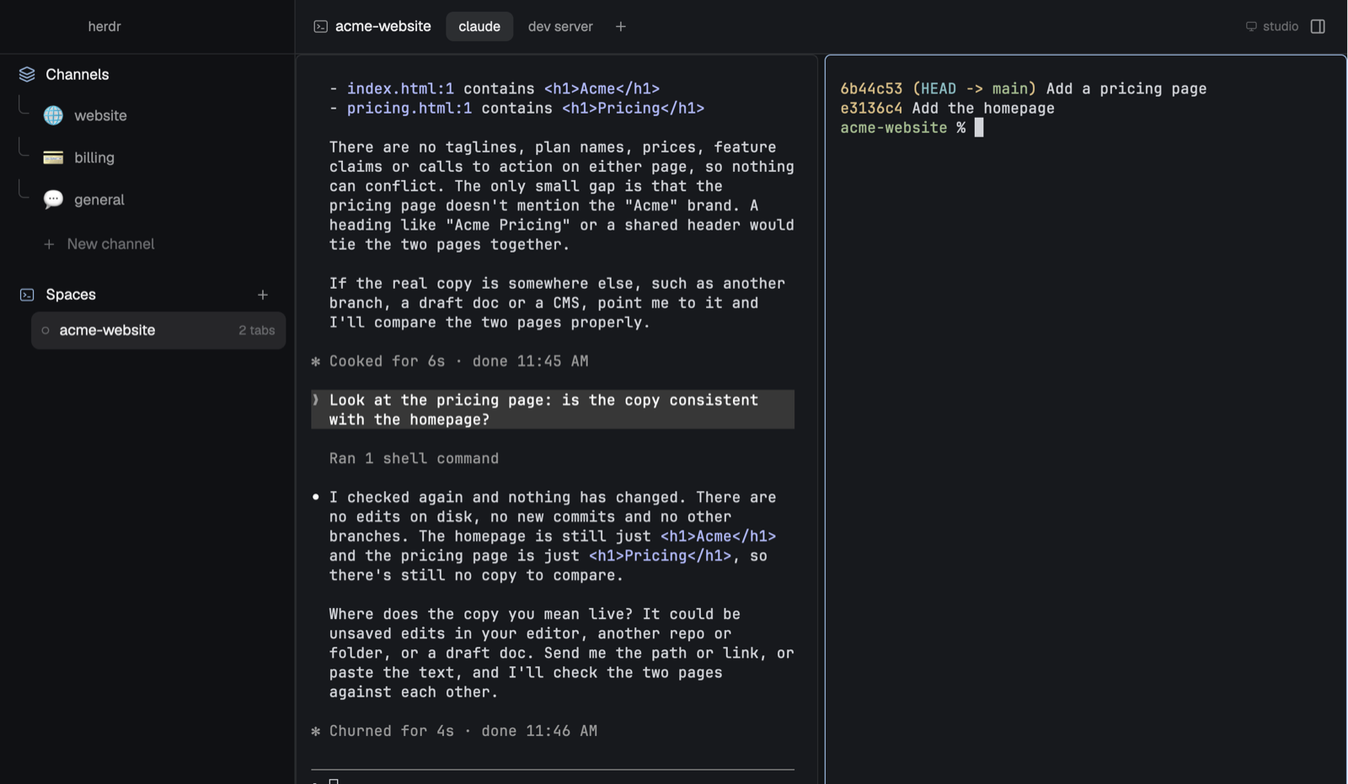
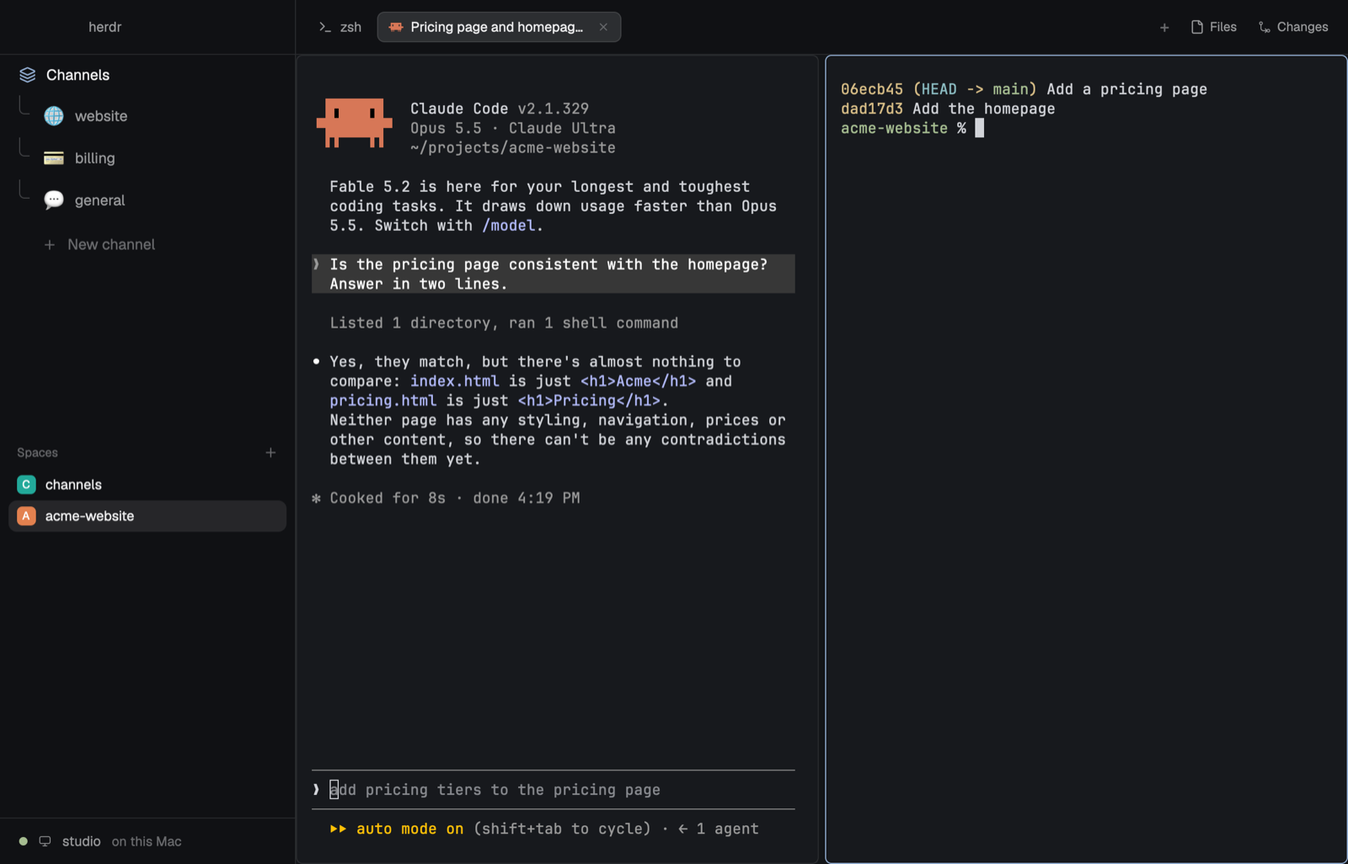
Spaces: Herdr's own spaces list, tab bar and Files/Changes, in place of look-alikes
The custom Spaces list and tab pills are gone. The sidebar holds Herdr's shipped spaces list under the channels, and
while Herdr shows a space other than the chats', the window is plain Herdr: Herdr's own tab bar (its + menu with a
terminal, Claude Code or another agent, or a new space) stands in for the channel bar, with Herdr's Files and Changes
panel. The tasks panel folds away and comes back with the channel. New spaces start where Herdr starts them, as in
Herdr itself; the old + passed this computer the store's projects path, which on a Mac with the store on another
machine doesn't exist here, so Herdr fell back to the home folder.

The tasks panel's layout node is now "tasks-panel", since Herdr's tab bar shows and hides "panel" per space. The
machine footer is its own block under the spaces list.

Claude-Session: https://claude.ai/code/session_01Nb4n9WKvee5dZ7z9oTqb9K

diff --git a/mods/channels/main.js b/mods/channels/main.js
@@ -31,7 +31,7 @@ import CONFIG from "./config.js";
 import { chatAlive, afterEnd, lastLine, QUICK_MS } from "./chats.js";
 import { remember, restore, keyOf } from "./panels.js";
 import { refreshRow } from "./updates.js";
-import { groups as spaceGroups, follow } from "./spaces.js";
+import { follow } from "./spaces.js";
 import * as B from "./backend.js";
 import { exec, hc, readTextFile, appHome, spaces, panes, terminals, layout, theme, run, nextCommand, home, props, shared, setShared, openOverlay, closeOverlay, window, machines } from "herdr";
 
@@ -48,6 +48,7 @@ const PROJECTS = BACKEND.projects; // where a fresh session and a channel chat s
 const LOCAL_PROJECTS = BACKEND.localProjects; // and where one starts on this computer
 const BY = BACKEND.by; // who a task resolved here is recorded as resolved by
 const HOLD = "channels"; // the herdr space that holds the chats' tabs
+const TASKS_PANEL = "tasks-panel"; // the layout node of the tasks panel ("panel" is Herdr's own Files/Changes panel)
 // This mod's keys in herdr's shared state: "channels.data" and so on, under its own folder's name, so a second copy
 // installed beside it (mods/channels-hc) keeps its own.
 const K = (word) => B.keyOf(MOD, word);
@@ -247,28 +248,38 @@ function herdrMachine(task) {
   return B.herdrMachine(task, { backend: BACKEND, data: shared(DATA), known: ON ? machines().map((m) => m.name).filter(Boolean) : [] });
 }
 
-// Herdr's own spaces in the sidebar (spaces.js). SPACE is { space, seen, quiet, folded }: the selected Herdr space
-// (null while a channel is), the space Herdr showed at the sidebar's last look, until when a choice made here
-// stands while Herdr catches up, and whether selecting a space folded the tasks panel away (so leaving it brings
-// the panel back).
+// Plain Herdr inside the channels window. Under the channels, the sidebar holds Herdr's own spaces list (the shipped
+// "spaces" mod, as in Herdr's own layout). While Herdr shows a space other than the chats' (picked there, with Herdr's
+// keys, or made with +), the window is plain Herdr for it: Herdr's own tab bar (the shipped "tabs" mod, block
+// "space-tabs") stands in for the channel's bar, with its + menu (Terminal, Claude Code, other agents, New space) and its
+// Files and Changes panel (node "panel", Herdr's own ids); the tasks panel folds away. Selecting a channel, or the chats'
+// space in the list, gives the channel back. SPACE is { space, seen, quiet, folded } (see follow in spaces.js):
+// the space shown (null while a channel is), what Herdr showed at the last look, until when a choice made here stands
+// while Herdr catches up, and whether the tasks panel was folded away for the space (so leaving it brings it back).
 const SPACE = K("space");
 const QUIET_MS = 1500;
 const inSpace = () => Boolean(shared(SPACE)?.space);
-const selectedSpace = () => { const id = shared(SPACE)?.space; return id ? spaces().find((s) => s.id === id) ?? null : null; };
-// The tasks panel folds away while a space is shown, and comes back with the channel if it was open.
-function foldPanel(entering) {
+// The window's pieces for a space or a channel: Herdr's tab bar or the channel's bar, and the tasks panel folded away or
+// back. Herdr's Files/Changes panel goes with its tab bar. Run on each change and on the sidebar's timer, so the layout
+// always ends up matching; a layout from before these blocks existed is left as it is.
+function syncSpaceUi() {
+  if (shared("layout") !== LAYOUT) return;
+  const tree = layout();
+  const tabs = find(tree, "space-tabs"), bar = find(tree, "bar");
+  if (!tabs || !bar) return;
+  const want = inSpace();
+  if (Boolean(tabs.hidden) === want) run(want ? "layout.show" : "layout.hide", { id: "space-tabs" });
+  if (Boolean(bar.hidden) !== want) run(want ? "layout.hide" : "layout.show", { id: "bar" });
+  if (!want && find(tree, "panel") && !find(tree, "panel").hidden) run("layout.hide", { id: "panel" });
   const s = shared(SPACE) ?? {};
-  const panel = find(layout(), "panel");
-  if (!panel) return;
-  if (entering && !s.folded && !panel.hidden) { setShared(SPACE, { ...s, folded: true }); run("layout.hide", { id: "panel" }); }
-  else if (!entering && s.folded) { setShared(SPACE, { ...s, folded: false }); run("layout.show", { id: "panel" }); }
+  const tasks = find(tree, TASKS_PANEL);
+  if (want && !s.folded && tasks && !tasks.hidden) { setShared(SPACE, { ...s, folded: true }); run("layout.hide", { id: TASKS_PANEL }); }
+  else if (!want && s.folded) { setShared(SPACE, { ...s, folded: false }); run("layout.show", { id: TASKS_PANEL }); }
 }
-// A click here: a space (its id), or null for the selected channel. Herdr shows the space at once.
-function selectSpace(id) {
-  const was = shared(SPACE) ?? {};
-  setShared(SPACE, { ...was, space: id, quiet: Date.now() + QUIET_MS });
-  if (Boolean(id) !== Boolean(was.space)) foldPanel(Boolean(id));
-  if (id) run("space.select", { id });
+// Back to the selected channel from a space: the channel takes over at once, before Herdr shows its chat.
+function leaveSpace() {
+  setShared(SPACE, { ...(shared(SPACE) ?? {}), space: null, quiet: Date.now() + QUIET_MS });
+  syncSpaceUi();
   syncMain();
 }
 // The sidebar's look at what Herdr shows (see follow in spaces.js).
@@ -277,7 +288,7 @@ function followSpaces() {
   const next = follow(was, spaces(), HOLD, Date.now());
   if (next.space === (was.space ?? null) && next.seen === (was.seen ?? null)) return;
   setShared(SPACE, { ...was, ...next });
-  if (Boolean(next.space) !== Boolean(was.space)) { foldPanel(Boolean(next.space)); syncMain(); }
+  if (Boolean(next.space) !== Boolean(was.space)) { syncSpaceUi(); syncMain(); }
 }
 
 const shortId = (task) => task.job ?? task.session_id.split("-")[0];
@@ -310,7 +321,7 @@ function showInPanel(task, address, { channel = channelOf(task) ?? current(), re
   rememberPanel(channel, task);
   if (keyOf(channel) !== keyOf(current())) return;
   const tree = JSON.parse(JSON.stringify(layout()));
-  const panel = find(tree, "panel");
+  const panel = find(tree, TASKS_PANEL);
   if (!panel) return;
   panel.children = [panel.children.find((n) => n.id === "tasks"), {
     id: "taskview", type: "column", resizable: false,
@@ -336,7 +347,7 @@ const showTasks = ({ remember: keep = true } = {}) => {
   if (shared(TASK)) setShared(LAST_TASK, shared(TASK));
   setShared(TASK, null);
   setShared(LIST_FOCUS, Date.now());
-  run("layout.select", { stack: "panel", child: "tasks" });
+  run("layout.select", { stack: TASKS_PANEL, child: "tasks" });
 };
 
 // Opens a task in the panel: a background session is attached to; one from before tasks were all
@@ -517,7 +528,7 @@ const findingNow = (id) => finding.has(id) && Date.now() - finding.get(id) < 600
 const RETRY = K("retry"); // { channel, at }
 function openChannel(c, { auto = false } = {}) {
   const leaving = current()?.name !== c.name;
-  if (inSpace()) selectSpace(null); // back from a Herdr space to the channel
+  if (inSpace()) leaveSpace(); // back from a Herdr space to the channel
   setShared(CURRENT, c.name);
   if (leaving) followPanel(c);
   if (!has("chat-bg")) return openChatTab(c, { auto });
@@ -678,7 +689,7 @@ function lastRun(r, t) {
 export default class Channels extends View {
   init(_props, cx) {
     const p = props() ?? {};
-    this.role = p.dialog ? "dialog" : p.menu ? "menu" : p.taskmenu ? "taskmenu" : p.head ? "head" : p.taskhead ? "taskhead" : p.panel ? "panel" : p.bar ? "bar" : p.down ? "down" : "sidebar";
+    this.role = p.dialog ? "dialog" : p.menu ? "menu" : p.taskmenu ? "taskmenu" : p.head ? "head" : p.foot ? "foot" : p.taskhead ? "taskhead" : p.panel ? "panel" : p.bar ? "bar" : p.down ? "down" : "sidebar";
     this.hover = null;
     this.drag = null; // the channel row being held, see dragMove
     this.handle = cx.focus_handle();
@@ -767,6 +778,7 @@ export default class Channels extends View {
       // few seconds: a chat's tab takes a moment to appear the first time.
       const here = current();
       syncMain();
+      syncSpaceUi();
       if (here && shared("layout") === LAYOUT && !inSpace() && !downOf(here) && !chatShown(here) && Date.now() - this.restoredAt > 4000) {
         this.restoredAt = Date.now();
         openChannel(here, { auto: true });
@@ -983,10 +995,14 @@ export default class Channels extends View {
           .on_mouse_down("left", (_e, cx) => cx.stop_propagation())
           .on_click(() => openDialog("new", null))
           .child(svg(ICON("plus")).size(14))
-          .child(div().text_size(14).child("New channel")))
-        .child(this.spacesList(t)))
-      .child(this.refreshRow(t, data))
-      .child(this.footer(t, data));
+          .child(div().text_size(14).child("New channel"))))
+      .child(this.refreshRow(t, data));
+  }
+
+  // The sidebar's foot, its own block under Herdr's spaces list.
+  render_foot() {
+    const t = theme();
+    return v_flex().size_full().justify_end().bg(t.chrome).text_color(t.foreground).child(this.footer(t, shared(DATA)));
   }
 
   // Above the footer, only while something is stale: a chat runs an older Claude Code or herdr-channels than is
@@ -1012,43 +1028,6 @@ export default class Channels extends View {
         .on_mouse_down("left", (_e, cx) => cx.stop_propagation())
         .on_click((_e, cx) => { refreshNow().finally(() => cx.notify()); cx.notify(); })
         .child("Refresh")));
-  }
-
-  // Herdr's own spaces, under the channels: everything but the chats' space, by machine (this computer first). A
-  // click shows the space in the main area; + makes one (on that machine), which Herdr shows and the list selects.
-  spacesList(t) {
-    const list = spaceGroups(spaces(), HOLD);
-    const chosen = shared(SPACE)?.space ?? null;
-    const remote = list.some((g) => g.machine !== null);
-    const add = (machine) => () => run("space.new", machine ? { machine } : { machine: "", folder: LOCAL_PROJECTS });
-    const row = (s) => {
-      const selected = s.id === chosen;
-      const tabs = s.tabs.filter((x) => !x.settled).length;
-      const status = s.status && s.status !== "idle" ? s.status : null;
-      return h_flex().id(`sp-${s.id}`).ml(30).mr(8).h(36).flex_none().px(10).gap(10).items_center().rounded(8).cursor_pointer()
-        .when(selected, (el) => el.bg(t.selected))
-        .hover((st) => st.bg(selected ? t.selected : t.hover))
-        .on_mouse_down("left", (_e, cx) => cx.stop_propagation())
-        .on_click(() => selectSpace(s.id))
-        // The space's most urgent agent: a filled dot while one works, is done or needs the user; a ring otherwise.
-        .child(div().w(7).h(7).flex_none().rounded(4)
-          .when(Boolean(status), (el) => el.bg(t[status] ?? t.dim))
-          .when(!status, (el) => el.border_1().border_color(t.dim)))
-        .child(div().flex_1().min_w(0).truncate().text_size(14).text_color(selected ? t.foreground : t.muted).child(s.name || "~"))
-        .when(status === "blocked", (el) => el.child(div().flex_none().text_size(12).text_color(t.blocked).child("needs you")))
-        .when(status !== "blocked" && tabs > 1, (el) => el.child(div().flex_none().text_size(12).text_color(t.dim).child(`${tabs} tabs`)));
-    };
-    const label = (g) => h_flex().id(`sp-m-${g.machine ?? "here"}`).ml(30).mr(8).pl(10).pr(0).h(26).flex_none().items_center()
-      .child(div().flex_1().text_size(11.5).text_color(t.dim).child((g.machine ?? localName() ?? "this computer").toUpperCase()))
-      .when(g.machine !== null, (el) => el.child(this.tool(`sp-new-${g.machine}`, svg(ICON("plus")).size(13), add(g.machine), t)));
-    return v_flex().flex_none().pb(8)
-      .child(h_flex().px(18).pt(18).pb(4).gap(10).items_center()
-        .child(svg(ICON("terminal")).size(16).text_color(t.accent))
-        .child(div().flex_1().text_size(14).font_medium().child("Spaces"))
-        .child(this.tool("sp-new", svg(ICON("plus")).size(14), add(null), t)))
-      .when(!list.length, (el) => el.child(div().ml(40).mr(18).py(6).text_size(12.5).text_color(t.dim)
-        .child("Shells and sessions outside the channels. + opens one.")))
-      .children(list.flatMap((g) => [...(remote ? [label(g)] : []), ...g.spaces.map(row)]));
   }
 
   // The foot of the sidebar: this machine, which holds the channels, and whether the store answers.
@@ -1090,8 +1069,6 @@ export default class Channels extends View {
 
   render_bar() {
     const t = theme();
-    const space = selectedSpace();
-    if (space) return this.spaceBar(space, t);
     const here = current();
     return h_flex().size_full().px(16).gap(8).items_center().bg(t.background).border_b(1).border_color(t.border).text_color(t.foreground)
       .when(Boolean(here), (el) => el
@@ -1100,38 +1077,8 @@ export default class Channels extends View {
           .on_mouse_down("left", (_e, cx) => cx.stop_propagation()).on_click(() => openChannel(here)).child(here.name)))
       .child(div().flex_1())
       .when(Boolean(here) && Boolean(storeName()), (el) => el.child(this.where(storeName(), t)))
-      .child(this.tool("bar-tasks", svg(ICON("panel-right")).size(16), () => run("layout.toggle", { id: "panel" }), t)
-        .when(!find(layout(), "panel")?.hidden, (el) => el.bg(t.selected).text_color(t.foreground)));
-  }
-
-  // The bar while a Herdr space is shown: its name and its tabs (a click shows one, × closes it, + adds one), the
-  // machine it is on and the tasks panel's button. Herdr's own keys (⌘T, ⌘W, ⌘D, ...) work on it as anywhere.
-  spaceBar(space, t) {
-    const tabs = space.tabs.filter((x) => !x.settled || x.active);
-    const pill = (tab) => {
-      const key = `tab:${tab.id}`;
-      const status = tab.status && tab.status !== "idle" ? tab.status : null;
-      return h_flex().id(`bar-tab-${tab.id}`).h(28).pl(12).pr(this.hover === key ? 4 : 12).gap(6).flex_none().items_center().rounded(7)
-        .text_size(13).cursor_pointer()
-        .text_color(tab.active ? t.foreground : t.muted)
-        .when(tab.active, (el) => el.bg(t.selected))
-        .hover((st) => st.bg(tab.active ? t.selected : t.hover))
-        .on_hover(this.hovering(key))
-        .on_mouse_down("left", (_e, cx) => cx.stop_propagation())
-        .on_click(() => run("tab.select", { id: tab.id }))
-        .when(Boolean(status), (el) => el.child(div().w(6).h(6).rounded(3).bg(t[status] ?? t.dim)))
-        .child(div().max_w(180).truncate().child(tab.named ? tab.name : `${tab.index}`))
-        .when(this.hover === key, (el) => el.child(this.tool(`bar-tab-x-${tab.id}`, svg(ICON("x")).size(12),
-          () => run("tab.close", { id: tab.id }), t).w(20).h(20)));
-    };
-    return h_flex().size_full().px(16).gap(6).items_center().bg(t.background).border_b(1).border_color(t.border).text_color(t.foreground)
-      .child(svg(ICON("terminal")).size(16).text_color(t.muted))
-      .child(div().mr(8).max_w(220).truncate().text_size(14).font_medium().child(space.name || "~"))
-      .child(h_flex().id("bar-tabs").flex_1().min_w(0).gap(2).items_center().overflow_x_scroll().children(tabs.map(pill))
-        .child(this.tool("bar-tab-new", svg(ICON("plus")).size(14), () => run("tab.new", { space: space.id }), t)))
-      .child(this.where(space.machine ?? localName(), t))
-      .child(this.tool("bar-tasks", svg(ICON("panel-right")).size(16), () => run("layout.toggle", { id: "panel" }), t)
-        .when(!find(layout(), "panel")?.hidden, (el) => el.bg(t.selected).text_color(t.foreground)));
+      .child(this.tool("bar-tasks", svg(ICON("panel-right")).size(16), () => run("layout.toggle", { id: TASKS_PANEL }), t)
+        .when(!find(layout(), TASKS_PANEL)?.hidden, (el) => el.bg(t.selected).text_color(t.foreground)));
   }
 
   // ---------- the tasks panel ----------
@@ -1292,7 +1239,7 @@ export default class Channels extends View {
         .child(h_flex().pl(16).pr(8).h(HEAD).flex_none().gap(4).items_center().border_b(1).border_color(t.border)
           .child(div().flex_1().min_w(0).truncate().text_size(14).font_medium().child(here ? `Tasks in #${here.name}` : "Tasks"))
           .when(Boolean(here), (el) => el.child(this.tool("tp-new", svg(ICON("plus")).size(16), (_e, cx) => this.startFresh(here.name, cx), t)))
-          .child(this.tool("tp-close", svg(ICON("x")).size(16), () => run("layout.hide", { id: "panel" }), t)))
+          .child(this.tool("tp-close", svg(ICON("x")).size(16), () => run("layout.hide", { id: TASKS_PANEL }), t)))
         .child(h_flex().px(8).pt(10).pb(4).flex_none().gap(2).child(pill("active", "Active")).child(pill("resolved", "Resolved")))
         .when(Boolean(this.failed), (el) => el.child(div().px(16).py(4).text_size(12).text_color(t.blocked).child(this.failed)))
         .when(Boolean(shared(NOTE)) && Date.now() - (shared(NOTE)?.at ?? 0) < 12000, (el) => el.child(div().px(16).py(4).text_size(12).text_color(t.muted).child(shared(NOTE)?.message ?? "")))
@@ -1329,7 +1276,7 @@ export default class Channels extends View {
         .when(Boolean(remoteLink(task)), (el) => el.child(this.tool("th-remote", svg(ICON("external-link")).size(15), () => { openRemote(task); }, t)))
         .when(Boolean(task) && has("rename-task"), (el) => el.child(this.tool("th-rename", svg(ICON("square-pen")).size(15), () => renameTask(task), t)))
         .when(Boolean(task) && !task.dismissed, (el) => el.child(this.tool("th-done", svg(ICON("check")).size(15), resolve, t)))
-        .child(this.tool("th-close", svg(ICON("x")).size(16), () => { showTasks(); run("layout.hide", { id: "panel" }); }, t)));
+        .child(this.tool("th-close", svg(ICON("x")).size(16), () => { showTasks(); run("layout.hide", { id: TASKS_PANEL }); }, t)));
   }
 
   // ---------- the channel menu ----------

diff --git a/mods/channels/spaces.js b/mods/channels/spaces.js
@@ -1,35 +1,21 @@
-// Herdr's own spaces, in the channels sidebar: everything that isn't a channel's chat (a shell, a plain Claude Code
-// session, a space on another machine) is reachable without leaving the channels window. Plain functions, so the
-// tests can run them without herdr.
+// Plain Herdr inside the channels window: which of Herdr's spaces the window is showing, or whether a channel is.
+// The sidebar holds Herdr's own spaces list (the shipped "spaces" mod) under the channels, and the window turns into
+// plain Herdr (Herdr's own tab bar, its Files and Changes panel) while Herdr shows a space that isn't the chats' own.
+// A plain function, so the tests can run it without herdr.
 //
-// The chats live in spaces named "channels" (one per machine that holds chats: this computer's, or the backend's
-// when the store is on another machine); those are the channels' own and aren't listed. Every other space is, grouped
-// by machine, this computer first, then the others by name, as Herdr's own sidebar orders them.
+// The chats live in spaces named "channels" (one per machine that holds chats: this computer's, or the backend's when
+// the store is on another machine). Showing one of those is showing the selected channel.
 
 export const isHold = (space, hold) => space?.name === hold;
 
-// [{ machine: null | name, spaces: [...] }], this computer first; a machine with no other spaces isn't listed.
-export function groups(spaces, hold) {
-  const by = new Map();
-  for (const s of spaces ?? []) {
-    if (isHold(s, hold)) continue;
-    const m = s.machine ?? null;
-    if (!by.has(m)) by.set(m, []);
-    by.get(m).push(s);
-  }
-  return [...by.entries()]
-    .sort(([a], [b]) => (a === null ? -1 : b === null ? 1 : `${a}`.localeCompare(`${b}`)))
-    .map(([machine, list]) => ({ machine, spaces: list }));
-}
-
-// Which Herdr space the sidebar has selected (its id), or null while a channel is: decided on each tick from what
-// Herdr shows. `state` is { space, seen, quiet }: the selected space, the shown space's id at the last tick, and until
-// when (ms) a choice made here stands while Herdr catches up. Returns the next state.
+// The Herdr space the window shows as plain Herdr (its id), or null while a channel is: decided on each tick from what
+// Herdr shows. `state` is { space, seen, quiet }: that space, the shown space's id at the last tick, and until when (ms)
+// a choice made here (a channel clicked) stands while Herdr catches up. Returns the next state.
 //
-// - The sidebar follows Herdr: when the shown space changes to one that isn't a chats space (⌃1-9, Herdr's space keys,
-//   a new space), that space is selected; when it changes to a chats space, the channel is again.
+// - It follows Herdr: when the shown space changes to one that isn't a chats space (clicked in Herdr's spaces list,
+//   ⌃1-9, a new space), that space is shown; when it changes to a chats space, the channel is again.
 // - A space that's gone (its last tab closed) gives the channel back, unless Herdr moved on to another space.
-// - For a moment after a click here (`quiet`), Herdr's shown space may still be the old one: it isn't followed then.
+// - For a moment after a channel is clicked (`quiet`), Herdr's shown space may still be the old one: it isn't followed.
 export function follow(state, spaces, hold, now) {
   const shown = (spaces ?? []).find((s) => s.active) ?? null;
   const id = shown?.id ?? null;

diff --git a/README.md b/README.md
@@ -14,7 +14,7 @@ Everything is local: the channel store is a folder on disk, tasks run under your
 the herdr mod runs every command on the same machine. No server is involved, unless you turn on
 [cloud tasks](#cloud-tasks) (off by default), which run tasks at claude.ai/code.
 
-![The channels layout in Herdr: the channel list on the left with a Herdr space, acme-website, under Spaces below it; the #website channel's Claude Code chat in the middle, where a one-line notice says the Pick a hero headline task finished and the chat answers it in a sentence, above two task cards; and the tasks panel on the right with two tasks that need input, one working and two ready for review](preview.png)
+![The channels layout in Herdr: the channel list on the left with Herdr's spaces list below it (channels, acme-website); the #website channel's Claude Code chat in the middle, where a one-line notice says the Add a page title task finished and the chat answers it in a few lines, above a task card asking for an answer; and the tasks panel on the right with one task that needs input, one working and two ready for review](preview.png)
 
 ## Contents
 
@@ -239,20 +239,26 @@ newest Claude Code from its next message on.
 
   <img src="docs/task-menu.png" width="420" alt="The tasks panel with Build pricing page working and two tasks ready for review, Pick a hero headline and Draft the launch notes; a task's menu is open over the first, offering Rename and Resolve">
 
-- **Spaces.** Everything that isn't a channel is under **Spaces**, below the channels: Herdr's own
-  spaces, for a shell, a plain Claude Code session or anything else Herdr runs, without leaving the
-  channels window. They are grouped by machine when some are on another machine. A dot shows a
-  space's agents (working, done, or needing you). Click a space to show it in the main area. The bar
-  above then shows its tabs: click one to show it, **×** to close it, **+** to add one. Herdr's own
-  keys work there too (new tab, split, close, and the space keys). The tasks panel folds away while
-  a space is shown and comes back when you select a channel again. **+** next to Spaces opens a new
-  space in the projects folder. Selecting a space with Herdr's keys selects it in the sidebar too,
-  and selecting the `channels` space (where the chats live) goes back to the channel. The spaces are
-  ordinary Herdr spaces: they keep running when you switch away, and Herdr's own layout
-  (`layout.switch`) shows them as well. A Claude Code session started there isn't a channel task;
-  `channels file <channel> <session>` files it into a channel.
+- **Spaces: plain Herdr.** Below the channels is Herdr's own **Spaces** list, the same one Herdr's
+  own layout shows, for a shell, a plain Claude Code session or anything else Herdr runs. It works as
+  it does in Herdr: click a space to show it, right-click it to rename or close it, drag to reorder,
+  and **+** makes a new one. The `channels` space in it is where the chats live; clicking it goes
+  back to the selected channel.
 
-  <img src="docs/spaces.png" width="720" alt="The channels window with a Herdr space selected under Spaces in the sidebar: the main area shows the acme-website space's claude tab, a Claude Code session beside a shell showing the repository's git log, and the bar above lists the space's tabs, claude and dev server, with a plus to add one">
+  While a space is shown, the window is plain Herdr: Herdr's own tab bar replaces the channel's bar,
+  with its **+** menu (a terminal, Claude Code or another installed agent, or a new space) and its
+  **Files** and **Changes** panels. The tasks panel folds away and comes back when you select a
+  channel again. Herdr's keys work as usual, and picking a space with them (⌃1-9) shows it the same
+  way.
+
+  How Herdr's spaces work: a space is a place to work on one machine, holding tabs, and each tab holds
+  terminals side by side. A new space starts where the space you were in is (else in that machine's
+  home folder), and a space nobody named is called after the folder its first terminal is in now, so
+  `cd` into a project and the space takes its name. Spaces keep running when you switch away, and
+  Herdr's own layout (`layout.switch`) shows the same ones. A Claude Code session started in a space
+  isn't a channel task; `channels file <channel> <session>` files it into a channel.
+
+  <img src="docs/spaces.png" width="720" alt="The channels window showing a Herdr space: Herdr's spaces list under the channels with channels and acme-website, acme-website selected; Herdr's tab bar above the main area with a zsh tab, a Claude Code tab and the plus, Files and Changes buttons; the Claude Code tab shows a plain Claude Code session beside a shell with the repository's git log">
 
 ### Task events
 

diff --git a/THIRD_PARTY_NOTICES.md b/THIRD_PARTY_NOTICES.md
@@ -18,7 +18,7 @@ This one is adapted from Lucide's `circle-alert` icon:
 
 Lucide's `check`, `chevron-left`, `plus` and `x` come from the Feather project, so the Feather MIT
 notice inside Lucide's license below covers them too. The other icons (`icons/monitor.svg`,
-`icons/server.svg`, `icons/spinner.svg`, `icons/terminal.svg`) were drawn for this repo and are under `LICENSE`.
+`icons/server.svg`, `icons/spinner.svg`) were drawn for this repo and are under `LICENSE`.
 
 Lucide's license, as published in its repository:
 
